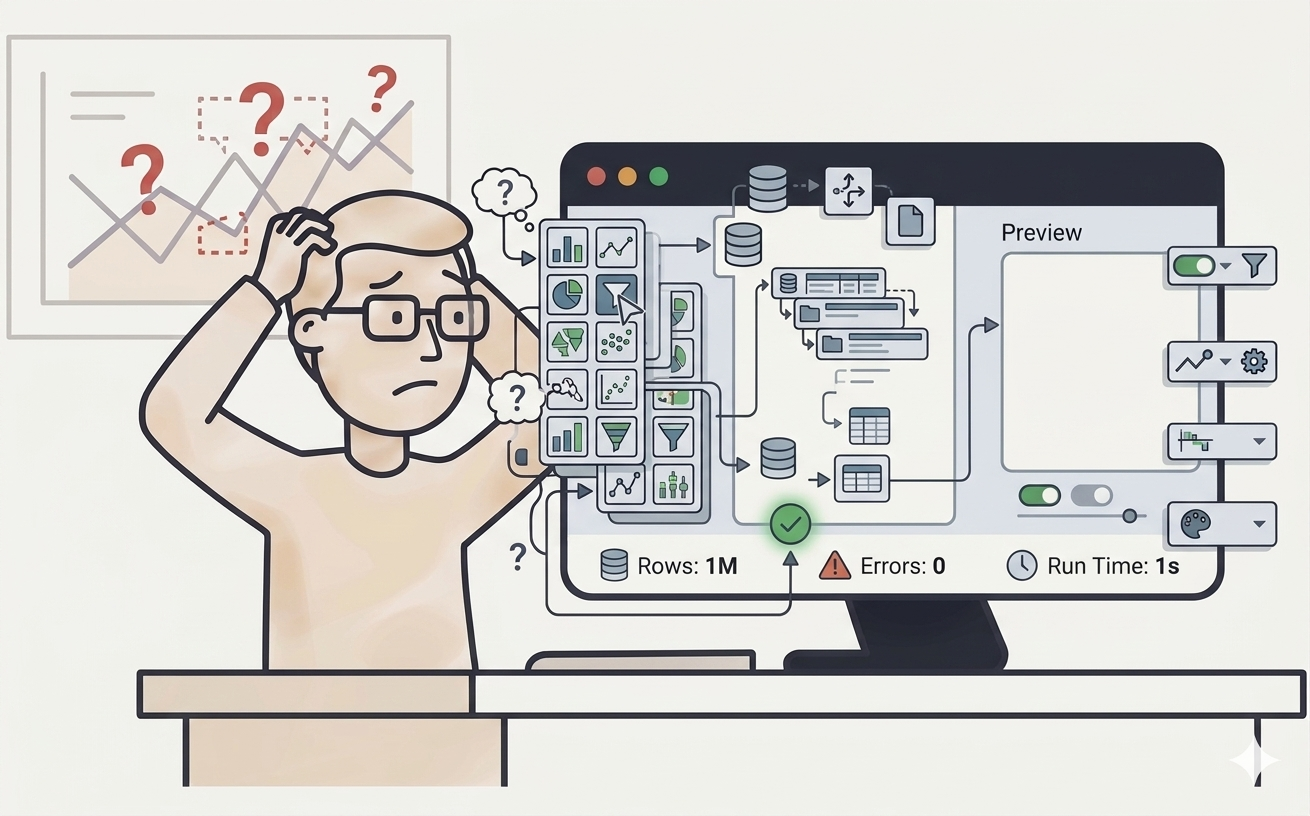
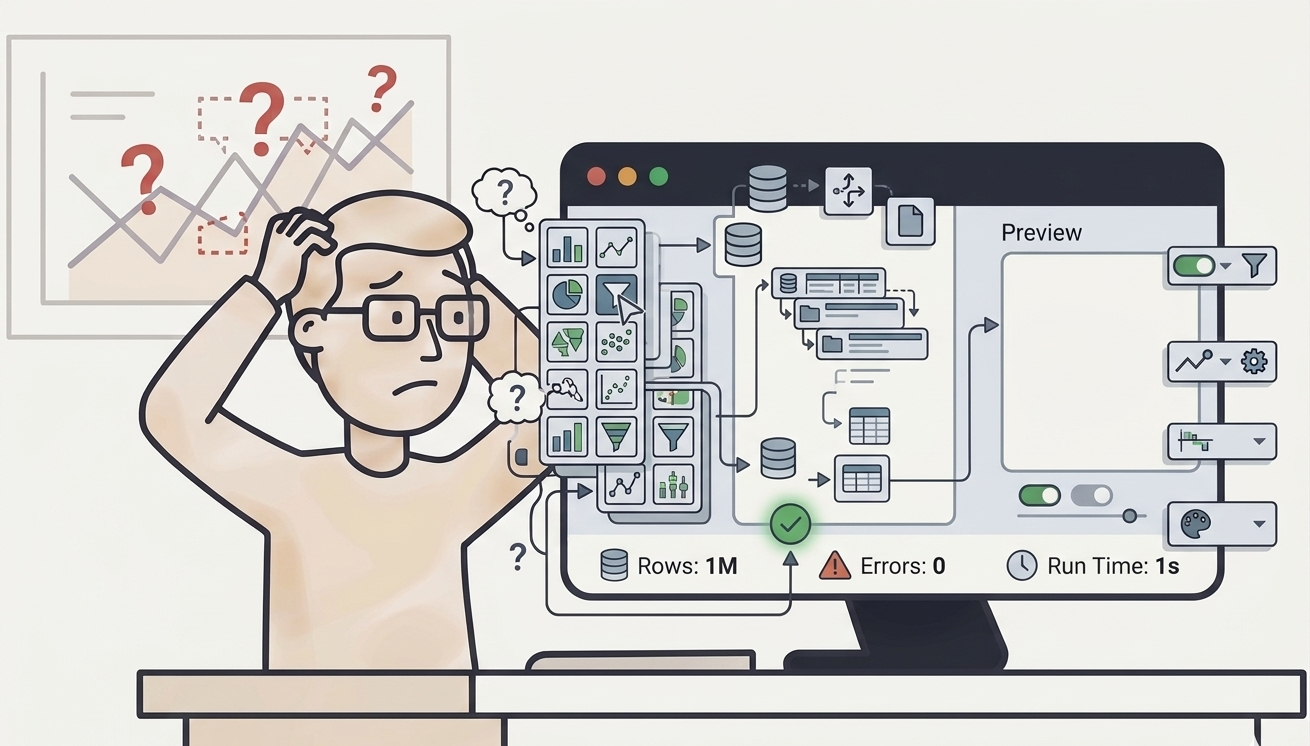
fix: SBF step 3 image — crop Gemini watermark, zoom to cover

Changed region(s): [[0.0, 0.0308, 1.0, 1.0]]

diff --git a/index.html b/index.html
@@ -701,7 +701,7 @@ const CASES = [
           background: "Splunk Business Flow (SBF) was Splunk's push beyond IT and Security — a process mining product that let business users visualize workflows and discover bottlenecks without writing a single query.",
           problem: "The Overview dashboard only showed totals: journey count, average duration. Users had no actionable place to start." },
     start: { heading: "We started building a flexible, customizable dashboard.", body: "Inspired by tools like Tableau and Chartio, we designed a system where users could add their own metric panels, configure thresholds, and save custom layouts.", gif: "assets/demo_v8b_hd.gif", cap: "First iteration: step-by-step configuration panel for custom dashboard setup" },
-    turn: { heading: "A workshop in February changed everything.", before: "At the February 2020 all-hands, our EMEA sales lead stopped the room with one observation that cut through all the design work we'd done.", signalImgL: "assets/sbf-confused-analyst.png", labelL: "THE PROBLEM", capL: "Business analysts are not familiar with customized dashboard configuration.", svgR: "img-placeholder", labelR: "THE INSIGHT", capR: "Business analysts prefer a pre-canned template with easy apply.", capRStyle: "green" },
+    turn: { heading: "A workshop in February changed everything.", before: "At the February 2020 all-hands, our EMEA sales lead stopped the room with one observation that cut through all the design work we'd done.", signalImgL: "assets/sbf-confused-analyst.png", coverL: true, labelL: "THE PROBLEM", capL: "Business analysts are not familiar with customized dashboard configuration.", svgR: "img-placeholder", labelR: "THE INSIGHT", capR: "Business analysts prefer a pre-canned template with easy apply.", capRStyle: "green" },
     conclusion: { heading: "One bottleneck report. No setup required.", body: "We shipped a pre-canned Bottleneck Report — surfacing the steps with the largest duration increase, with outlier journeys highlighted and a path to drill in. Insight on first load, customization available when needed.", img: "assets/sbf-v2-bottleneck.png", cap: "The Bottleneck Report — insight on first load, no configuration needed", layout: 'stack' },
     evaluation: { heading: "What it returned.", gif: "assets/splunk_sbf_v2b.gif", stats: [["4+ Stars", ".conf 2020 satisfaction"], ["#4", "Ranked in .conf survey"], ["3", "User types served"], ["1Q", "From workshop pivot to MVP"]], learning: "The lesson: a technically correct solution can still miss the mark. Business users needed insight on load — not a blank canvas to configure." },
     invitation: { heading: "That's the five-minute version.", body: "What it felt like to pivot mid-project after one sentence from a sales lead — that's the part worth a conversation." }
@@ -1517,10 +1517,10 @@ function pageTurn(c) {
     var turnSvgMap = { 'uda-inconsistency': UDA_INCONSISTENCY_SVG, 'uda-direction': UDA_DIRECTION_SVG, 'embed-value': EMBED_VALUE_SVG, 'agentic-assist': AGENTIC_ASSIST_SVG, 'rca-trust': RCA_TRUST_SVG, 'img-placeholder': IMG_PLACEHOLDER_SVG };
     var leftVis = c.turn.svgL
       ? '<div style="border-radius:12px;overflow:hidden;border:1.5px solid #E8E8E3;flex:1;display:flex;align-items:center">' + (turnSvgMap[c.turn.svgL] || '') + '</div>'
-      : '<div class="turn-img-wrap"><img src="' + c.turn.signalImgL + '" class="turn-half-img" alt=""></div>';
+      : '<div class="turn-img-wrap" style="' + (c.turn.coverL ? 'padding:0' : '') + '"><img src="' + c.turn.signalImgL + '" class="turn-half-img" style="' + (c.turn.coverL ? 'object-fit:cover' : '') + '" alt=""></div>';
     var rightVis = c.turn.svgR
       ? '<div style="border-radius:12px;overflow:hidden;border:1.5px solid #E8E8E3;flex:1;display:flex;align-items:center">' + (turnSvgMap[c.turn.svgR] || '') + '</div>'
-      : '<div class="turn-img-wrap"><img src="' + c.turn.signalImgR + '" class="turn-half-img" alt=""></div>';
+      : '<div class="turn-img-wrap" style="' + (c.turn.coverR ? 'padding:0' : '') + '"><img src="' + c.turn.signalImgR + '" class="turn-half-img" style="' + (c.turn.coverR ? 'object-fit:cover' : '') + '" alt=""></div>';
     return '<div class="page page-turn"><div class="page-in">' +
       '<div class="turn-header">' +
       '<div class="p-meta">Step 03 · The Turn</div>' +